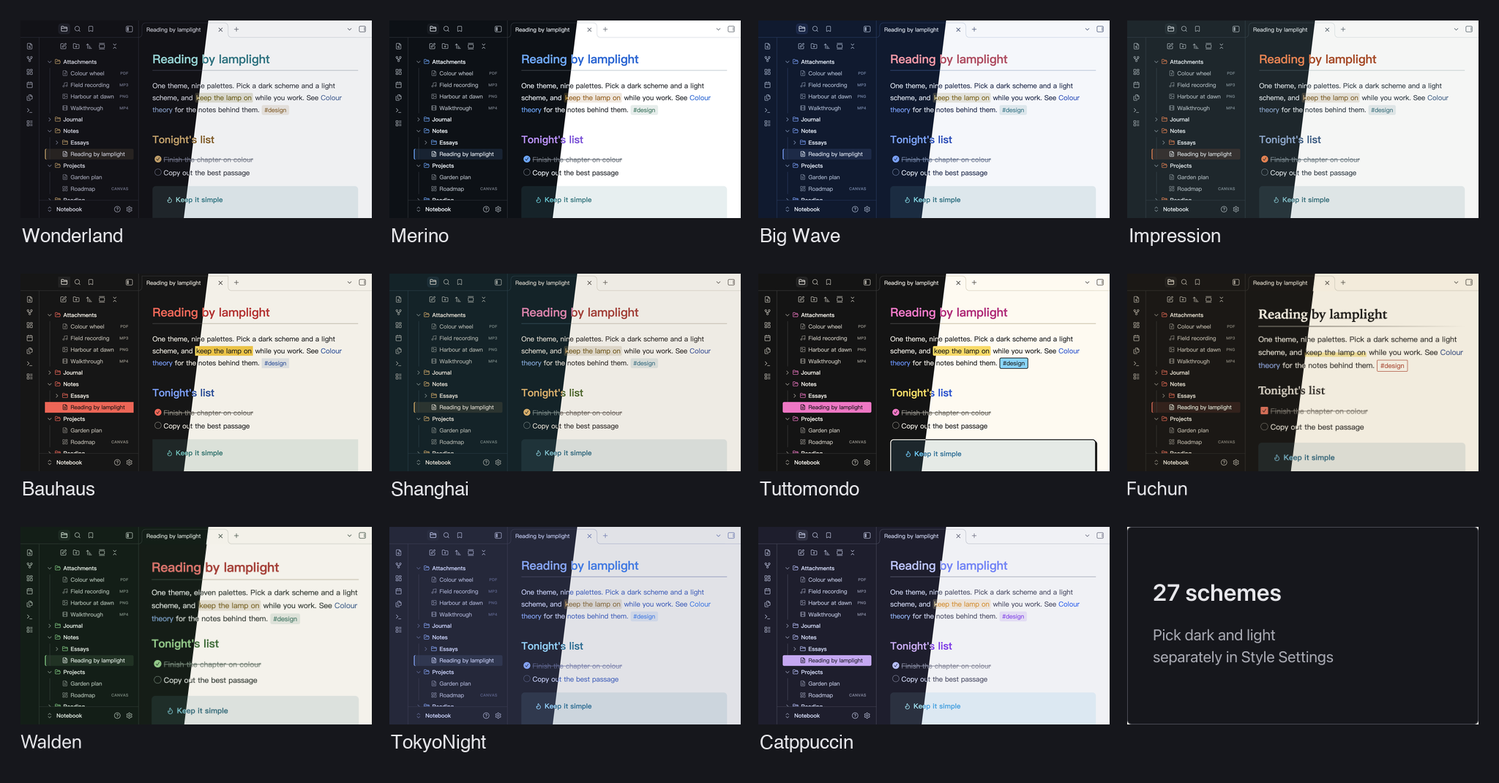
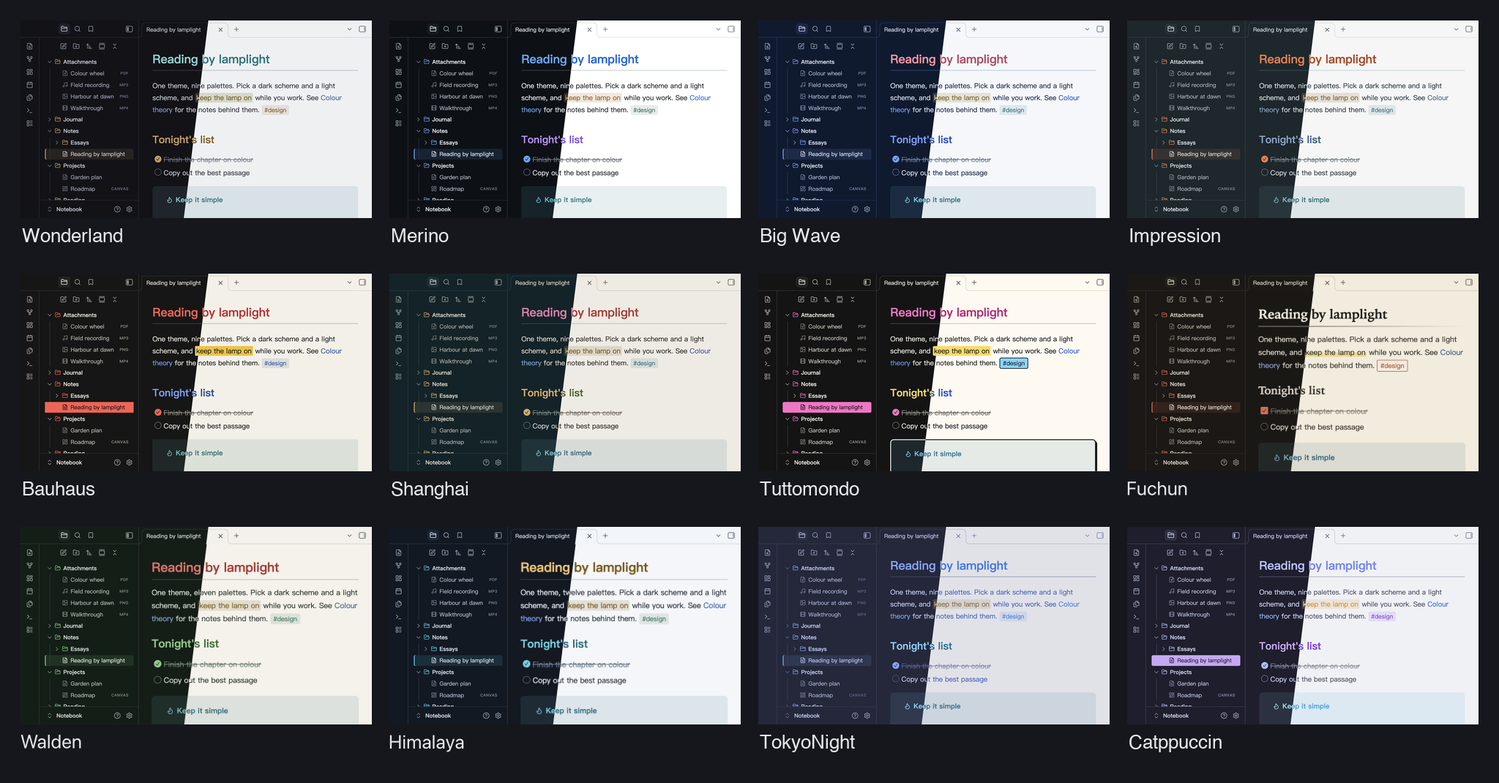
Lamplit 1.12.0

diff --git a/theme.css b/theme.css
@@ -2,7 +2,7 @@
  * Lamplit — Obsidian Theme
  * Reading by lamplight (青灯夜读). One theme, several palettes:
  * pick a dark and a light scheme in Style Settings.
- * Schemes: Wonderland (Underground, Office District, Lab) · Merino (Light, Dark) · Big Wave (Pipeline, Spray) · Impression (Havre, Brume) · Bauhaus (Weimar, Dessau) · Shanghai (Bund, Wukang) · Tuttomondo (Subway, Pisa) · Fuchun (Shengshan, Wuyong) · Walden (Woods, Herbarium) · TokyoNight (Storm, Night, Moon, Day) · Catppuccin (Mocha, Macchiato, Frappé, Latte)
+ * Schemes: Wonderland (Underground, Office District, Lab) · Merino (Light, Dark) · Big Wave (Pipeline, Spray) · Impression (Havre, Brume) · Bauhaus (Weimar, Dessau) · Shanghai (Bund, Wukang) · Tuttomondo (Subway, Pisa) · Fuchun (Shengshan, Wuyong) · Walden (Woods, Herbarium) · Himalaya (Everest, Moraine, Snowline) · TokyoNight (Storm, Night, Moon, Day) · Catppuccin (Mocha, Macchiato, Frappé, Latte)
  * Requires: Style Settings plugin to choose schemes (otherwise the defaults apply)
  * GENERATED by scripts/gen-themes.py from shared/lamplit.toml, shared/palettes/*.toml
  * and scripts/templates/obsidian.css.tmpl — edit those, not this file.
@@ -50,6 +50,12 @@ settings:
       -
         label: Walden · Woods
         value: ll-wd-woods
+      -
+        label: Himalaya · Everest
+        value: ll-hm-everest
+      -
+        label: Himalaya · Moraine
+        value: ll-hm-moraine
       -
         label: TokyoNight · Storm
         value: ll-tn-storm
@@ -102,6 +108,9 @@ settings:
       -
         label: Walden · Herbarium
         value: ll-wd-herbarium
+      -
+        label: Himalaya · Snowline
+        value: ll-hm-snowline
       -
         label: TokyoNight · Day
         value: ll-tn-day
@@ -970,6 +979,162 @@ body.theme-dark.ll-wd-woods {
     --ll-tooltip-rgb:          120, 170, 216;
     --ll-tooltip-border-alpha: 0.45;
     --ll-tooltip-shadow:       0 2px 8px rgba(0, 0, 0, 0.2);
+    --ll-tooltip-text-alpha:   0.85;
+    --ll-cond-1:               var(--ll-mark-fill);
+    --ll-cond-2:               1;
+    --nav-item-color-hover:        var(--ll-fg);
+    --nav-item-background-hover:   var(--ll-bg-hl);
+    --nav-item-background-active:  rgba(var(--ll-accent-rgb), 0.12);
+    --nav-item-color-active:       var(--ll-fg);
+}
+
+/* --- Dark: Himalaya · Everest — 8,848m stratosphere night; cold shale-slate black, crystalline snow text --- */
+
+body.theme-dark.ll-hm-everest {
+    --ll-bg:                   #121822;
+    --ll-bg-dark:              #0c1118;
+    --ll-bg-hl:                #1b2432;
+    --ll-gutter:               #2a374b;
+    --ll-fg:                   #dfe7f0;
+    --ll-fg-dim:               #aebcd0;
+    --ll-comment:              #6c7f99;
+    --ll-comment-rgb:          108, 127, 153;
+    --ll-selection:            #1e3548;
+    --ll-mark-bg:              rgba(242, 193, 102, 0.18);
+    --ll-blue:                 #7ca4f2;
+    --ll-blue-rgb:             124, 164, 242;
+    --ll-cyan:                 #5ad0e6;
+    --ll-cyan-rgb:             90, 208, 230;
+    --ll-teal-rgb:             76, 196, 164;
+    --ll-green:                #92cc7a;
+    --ll-green-rgb:            146, 204, 122;
+    --ll-yellow:               #f2c166;
+    --ll-yellow-rgb:           242, 193, 102;
+    --ll-orange:               #f09456;
+    --ll-orange-rgb:           240, 148, 86;
+    --ll-red:                  #ee6868;
+    --ll-red-rgb:              238, 104, 104;
+    --ll-magenta:              #cc8ae6;
+    --ll-magenta-rgb:          204, 138, 230;
+    --ll-accent:               #5ad0e6;
+    --ll-accent-rgb:           90, 208, 230;
+    --ll-accent-h:             189.4;
+    --ll-accent-hover:         #7ca4f2;
+    --ll-accent-l:             62.7%;
+    --ll-accent-s:             73.7%;
+    --ll-callout-note-rgb:     124, 164, 242;
+    --ll-folder-1:             #7ca4f2;
+    --ll-folder-2:             #f09456;
+    --ll-folder-3:             #4cc4a4;
+    --ll-folder-4:             #ee6868;
+    --ll-folder-5:             #92cc7a;
+    --ll-folder-6:             #cc8ae6;
+    --ll-folder-7:             #f2c166;
+    --ll-folder-8:             #5ad0e6;
+    --ll-graph-tag:            #4cc4a4;
+    --ll-h1:                   #f2c166;
+    --ll-h2:                   #5ad0e6;
+    --ll-h3:                   #7ca4f2;
+    --ll-h4:                   #4cc4a4;
+    --ll-h5:                   #cc8ae6;
+    --ll-h6:                   #6c7f99;
+    --ll-highlight:            #5ad0e6;
+    --ll-mark-fill:            rgba(242, 193, 102, 0.18);
+    --ll-mark-text:            #f2c166;
+    --ll-quote-rule:           #5ad0e6;
+    --ll-radius-2:             2px;
+    --ll-radius-3:             3px;
+    --ll-radius-4:             4px;
+    --ll-radius-6:             6px;
+    --ll-radius-8:             8px;
+    --ll-search:               #f09456;
+    --ll-search-rgb:           240, 148, 86;
+    --ll-table-header:         #5ad0e6;
+    --ll-table-hover-alpha:    0.12;
+    --ll-tag:                  #4cc4a4;
+    --ll-tag-rgb:              76, 196, 164;
+    --ll-tag-hover:            #7ca4f2;
+    --ll-tooltip-rgb:          124, 164, 242;
+    --ll-tooltip-border-alpha: 0.45;
+    --ll-tooltip-shadow:       0 2px 8px rgba(0, 0, 0, 0.22);
+    --ll-tooltip-text-alpha:   0.85;
+    --ll-cond-1:               var(--ll-mark-fill);
+    --ll-cond-2:               1;
+    --nav-item-color-hover:        var(--ll-fg);
+    --nav-item-background-hover:   var(--ll-bg-hl);
+    --nav-item-background-active:  rgba(var(--ll-accent-rgb), 0.12);
+    --nav-item-color-active:       var(--ll-fg);
+}
+
+/* --- Dark: Himalaya · Moraine — twilight over violet-plum moraine rock, after Roerich's dusk peaks --- */
+
+body.theme-dark.ll-hm-moraine {
+    --ll-bg:                   #261d24;
+    --ll-bg-dark:              #1c151a;
+    --ll-bg-hl:                #332831;
+    --ll-gutter:               #483a45;
+    --ll-fg:                   #eae3e8;
+    --ll-fg-dim:               #bfb4bc;
+    --ll-comment:              #877a84;
+    --ll-comment-rgb:          135, 122, 132;
+    --ll-selection:            #3f2e3b;
+    --ll-mark-bg:              rgba(245, 200, 114, 0.18);
+    --ll-blue:                 #8aadf7;
+    --ll-blue-rgb:             138, 173, 247;
+    --ll-cyan:                 #66d6ea;
+    --ll-cyan-rgb:             102, 214, 234;
+    --ll-teal-rgb:             88, 204, 173;
+    --ll-green:                #9cd282;
+    --ll-green-rgb:            156, 210, 130;
+    --ll-yellow:               #f5c872;
+    --ll-yellow-rgb:           245, 200, 114;
+    --ll-orange:               #f49d62;
+    --ll-orange-rgb:           244, 157, 98;
+    --ll-red:                  #f27476;
+    --ll-red-rgb:              242, 116, 118;
+    --ll-magenta:              #d898ee;
+    --ll-magenta-rgb:          216, 152, 238;
+    --ll-accent:               #66d6ea;
+    --ll-accent-rgb:           102, 214, 234;
+    --ll-accent-h:             189.1;
+    --ll-accent-hover:         #8aadf7;
+    --ll-accent-l:             65.9%;
+    --ll-accent-s:             75.9%;
+    --ll-callout-note-rgb:     138, 173, 247;
+    --ll-folder-1:             #8aadf7;
+    --ll-folder-2:             #f49d62;
+    --ll-folder-3:             #58ccad;
+    --ll-folder-4:             #f27476;
+    --ll-folder-5:             #9cd282;
+    --ll-folder-6:             #d898ee;
+    --ll-folder-7:             #f5c872;
+    --ll-folder-8:             #66d6ea;
+    --ll-graph-tag:            #58ccad;
+    --ll-h1:                   #f5c872;
+    --ll-h2:                   #66d6ea;
+    --ll-h3:                   #8aadf7;
+    --ll-h4:                   #58ccad;
+    --ll-h5:                   #d898ee;
+    --ll-h6:                   #877a84;
+    --ll-highlight:            #66d6ea;
+    --ll-mark-fill:            rgba(245, 200, 114, 0.18);
+    --ll-mark-text:            #f5c872;
+    --ll-quote-rule:           #66d6ea;
+    --ll-radius-2:             2px;
+    --ll-radius-3:             3px;
+    --ll-radius-4:             4px;
+    --ll-radius-6:             6px;
+    --ll-radius-8:             8px;
+    --ll-search:               #f49d62;
+    --ll-search-rgb:           244, 157, 98;
+    --ll-table-header:         #66d6ea;
+    --ll-table-hover-alpha:    0.12;
+    --ll-tag:                  #58ccad;
+    --ll-tag-rgb:              88, 204, 173;
+    --ll-tag-hover:            #8aadf7;
+    --ll-tooltip-rgb:          138, 173, 247;
+    --ll-tooltip-border-alpha: 0.45;
+    --ll-tooltip-shadow:       0 2px 8px rgba(0, 0, 0, 0.22);
     --ll-tooltip-text-alpha:   0.85;
     --ll-cond-1:               var(--ll-mark-fill);
     --ll-cond-2:               1;
@@ -2211,6 +2376,84 @@ body.theme-light.ll-wd-herbarium {
     --nav-item-color-active:       var(--ll-fg);
 }
 
+/* --- Light: Himalaya · Snowline — sunlit snowfield under thin sapphire sky; crisp glacial white, basalt ink --- */
+
+body.theme-light.ll-hm-snowline {
+    --ll-bg:                   #f3f6f9;
+    --ll-bg-dark:              #e7edf3;
+    --ll-bg-hl:                #dce5ee;
+    --ll-gutter:               #c4d1df;
+    --ll-fg:                   #1c2530;
+    --ll-fg-dim:               #3f4e60;
+    --ll-comment:              #69798c;
+    --ll-comment-rgb:          105, 121, 140;
+    --ll-selection:            #cde2ec;
+    --ll-mark-bg:              rgba(125, 87, 0, 0.15);
+    --ll-blue:                 #2452a6;
+    --ll-blue-rgb:             36, 82, 166;
+    --ll-cyan:                 #0b697d;
+    --ll-cyan-rgb:             11, 105, 125;
+    --ll-teal-rgb:             19, 110, 87;
+    --ll-green:                #366e28;
+    --ll-green-rgb:            54, 110, 40;
+    --ll-yellow:               #7d5700;
+    --ll-yellow-rgb:           125, 87, 0;
+    --ll-orange:               #a64c0c;
+    --ll-orange-rgb:           166, 76, 12;
+    --ll-red:                  #b82c36;
+    --ll-red-rgb:              184, 44, 54;
+    --ll-magenta:              #7c3b96;
+    --ll-magenta-rgb:          124, 59, 150;
+    --ll-accent:               #0b697d;
+    --ll-accent-rgb:           11, 105, 125;
+    --ll-accent-h:             190.5;
+    --ll-accent-hover:         #2452a6;
+    --ll-accent-l:             26.7%;
+    --ll-accent-s:             83.8%;
+    --ll-callout-note-rgb:     36, 82, 166;
+    --ll-folder-1:             #2452a6;
+    --ll-folder-2:             #a64c0c;
+    --ll-folder-3:             #136e57;
+    --ll-folder-4:             #b82c36;
+    --ll-folder-5:             #366e28;
+    --ll-folder-6:             #7c3b96;
+    --ll-folder-7:             #7d5700;
+    --ll-folder-8:             #0b697d;
+    --ll-graph-tag:            #136e57;
+    --ll-h1:                   #7d5700;
+    --ll-h2:                   #0b697d;
+    --ll-h3:                   #2452a6;
+    --ll-h4:                   #136e57;
+    --ll-h5:                   #7c3b96;
+    --ll-h6:                   #69798c;
+    --ll-highlight:            #0b697d;
+    --ll-mark-fill:            rgba(125, 87, 0, 0.15);
+    --ll-mark-text:            #7d5700;
+    --ll-quote-rule:           #0b697d;
+    --ll-radius-2:             2px;
+    --ll-radius-3:             3px;
+    --ll-radius-4:             4px;
+    --ll-radius-6:             6px;
+    --ll-radius-8:             8px;
+    --ll-search:               #a64c0c;
+    --ll-search-rgb:           166, 76, 12;
+    --ll-table-header:         #0b697d;
+    --ll-table-hover-alpha:    0.12;
+    --ll-tag:                  #136e57;
+    --ll-tag-rgb:              19, 110, 87;
+    --ll-tag-hover:            #2452a6;
+    --ll-tooltip-rgb:          36, 82, 166;
+    --ll-tooltip-border-alpha: 0.45;
+    --ll-tooltip-shadow:       0 2px 8px rgba(0, 0, 0, 0.22);
+    --ll-tooltip-text-alpha:   0.85;
+    --ll-cond-1:               var(--ll-mark-fill);
+    --ll-cond-2:               1;
+    --nav-item-color-hover:        var(--ll-fg);
+    --nav-item-background-hover:   var(--ll-bg-hl);
+    --nav-item-background-active:  rgba(var(--ll-accent-rgb), 0.12);
+    --nav-item-color-active:       var(--ll-fg);
+}
+
 /* --- Light: TokyoNight · Day --- */
 
 body.theme-light.ll-tn-day {
@@ -3168,16 +3411,16 @@ input[type="checkbox"][data-task="!"]::before {
 .nav-folder-title,
 .nav-file-title { border-radius: var(--ll-radius-4); }
 
-:where(body.theme-dark.ll-wl-underground, body.theme-dark:not(.ll-wl-underground, .ll-wl-office, .ll-mr-dark, .ll-bw-pipeline, .ll-im-havre, .ll-bh-weimar, .ll-sh-bund, .ll-tm-subway, .ll-fc-shengshan, .ll-wd-woods, .ll-tn-storm, .ll-tn-night, .ll-tn-moon, .ll-cp-mocha, .ll-cp-macchiato, .ll-cp-frappe), body.theme-dark.ll-wl-office, body.theme-dark.ll-mr-dark, body.theme-dark.ll-bw-pipeline, body.theme-dark.ll-im-havre, body.theme-dark.ll-sh-bund, body.theme-dark.ll-fc-shengshan, body.theme-dark.ll-wd-woods, body.theme-dark.ll-tn-storm, body.theme-dark.ll-tn-night, body.theme-dark.ll-tn-moon, body.theme-light.ll-wl-lab, body.theme-light:not(.ll-wl-lab, .ll-mr-light, .ll-bw-spray, .ll-im-brume, .ll-bh-dessau, .ll-sh-wukang, .ll-tm-pisa, .ll-fc-wuyong, .ll-wd-herbarium, .ll-tn-day, .ll-cp-latte), body.theme-light.ll-mr-light, body.theme-light.ll-bw-spray, body.theme-light.ll-im-brume, body.theme-light.ll-sh-wukang, body.theme-light.ll-fc-wuyong, body.theme-light.ll-wd-herbarium, body.theme-light.ll-tn-day) .nav-file-title:hover,
-:where(body.theme-dark.ll-wl-underground, body.theme-dark:not(.ll-wl-underground, .ll-wl-office, .ll-mr-dark, .ll-bw-pipeline, .ll-im-havre, .ll-bh-weimar, .ll-sh-bund, .ll-tm-subway, .ll-fc-shengshan, .ll-wd-woods, .ll-tn-storm, .ll-tn-night, .ll-tn-moon, .ll-cp-mocha, .ll-cp-macchiato, .ll-cp-frappe), body.theme-dark.ll-wl-office, body.theme-dark.ll-mr-dark, body.theme-dark.ll-bw-pipeline, body.theme-dark.ll-im-havre, body.theme-dark.ll-sh-bund, body.theme-dark.ll-fc-shengshan, body.theme-dark.ll-wd-woods, body.theme-dark.ll-tn-storm, body.theme-dark.ll-tn-night, body.theme-dark.ll-tn-moon, body.theme-light.ll-wl-lab, body.theme-light:not(.ll-wl-lab, .ll-mr-light, .ll-bw-spray, .ll-im-brume, .ll-bh-dessau, .ll-sh-wukang, .ll-tm-pisa, .ll-fc-wuyong, .ll-wd-herbarium, .ll-tn-day, .ll-cp-latte), body.theme-light.ll-mr-light, body.theme-light.ll-bw-spray, body.theme-light.ll-im-brume, body.theme-light.ll-sh-wukang, body.theme-light.ll-fc-wuyong, body.theme-light.ll-wd-herbarium, body.theme-light.ll-tn-day) .nav-folder-title:hover {
+:where(body.theme-dark.ll-wl-underground, body.theme-dark:not(.ll-wl-underground, .ll-wl-office, .ll-mr-dark, .ll-bw-pipeline, .ll-im-havre, .ll-bh-weimar, .ll-sh-bund, .ll-tm-subway, .ll-fc-shengshan, .ll-wd-woods, .ll-hm-everest, .ll-hm-moraine, .ll-tn-storm, .ll-tn-night, .ll-tn-moon, .ll-cp-mocha, .ll-cp-macchiato, .ll-cp-frappe), body.theme-dark.ll-wl-office, body.theme-dark.ll-mr-dark, body.theme-dark.ll-bw-pipeline, body.theme-dark.ll-im-havre, body.theme-dark.ll-sh-bund, body.theme-dark.ll-fc-shengshan, body.theme-dark.ll-wd-woods, body.theme-dark.ll-hm-everest, body.theme-dark.ll-hm-moraine, body.theme-dark.ll-tn-storm, body.theme-dark.ll-tn-night, body.theme-dark.ll-tn-moon, body.theme-light.ll-wl-lab, body.theme-light:not(.ll-wl-lab, .ll-mr-light, .ll-bw-spray, .ll-im-brume, .ll-bh-dessau, .ll-sh-wukang, .ll-tm-pisa, .ll-fc-wuyong, .ll-wd-herbarium, .ll-hm-snowline, .ll-tn-day, .ll-cp-latte), body.theme-light.ll-mr-light, body.theme-light.ll-bw-spray, body.theme-light.ll-im-brume, body.theme-light.ll-sh-wukang, body.theme-light.ll-fc-wuyong, body.theme-light.ll-wd-herbarium, body.theme-light.ll-hm-snowline, body.theme-light.ll-tn-day) .nav-file-title:hover,
+:where(body.theme-dark.ll-wl-underground, body.theme-dark:not(.ll-wl-underground, .ll-wl-office, .ll-mr-dark, .ll-bw-pipeline, .ll-im-havre, .ll-bh-weimar, .ll-sh-bund, .ll-tm-subway, .ll-fc-shengshan, .ll-wd-woods, .ll-hm-everest, .ll-hm-moraine, .ll-tn-storm, .ll-tn-night, .ll-tn-moon, .ll-cp-mocha, .ll-cp-macchiato, .ll-cp-frappe), body.theme-dark.ll-wl-office, body.theme-dark.ll-mr-dark, body.theme-dark.ll-bw-pipeline, body.theme-dark.ll-im-havre, body.theme-dark.ll-sh-bund, body.theme-dark.ll-fc-shengshan, body.theme-dark.ll-wd-woods, body.theme-dark.ll-hm-everest, body.theme-dark.ll-hm-moraine, body.theme-dark.ll-tn-storm, body.theme-dark.ll-tn-night, body.theme-dark.ll-tn-moon, body.theme-light.ll-wl-lab, body.theme-light:not(.ll-wl-lab, .ll-mr-light, .ll-bw-spray, .ll-im-brume, .ll-bh-dessau, .ll-sh-wukang, .ll-tm-pisa, .ll-fc-wuyong, .ll-wd-herbarium, .ll-hm-snowline, .ll-tn-day, .ll-cp-latte), body.theme-light.ll-mr-light, body.theme-light.ll-bw-spray, body.theme-light.ll-im-brume, body.theme-light.ll-sh-wukang, body.theme-light.ll-fc-wuyong, body.theme-light.ll-wd-herbarium, body.theme-light.ll-hm-snowline, body.theme-light.ll-tn-day) .nav-folder-title:hover {
     background: linear-gradient(90deg, rgba(var(--ll-accent-rgb), 0.15) 0%, transparent 80%);
     transition: background var(--anim-fast) var(--anim-smooth);
 }
 
 /* Active file — accent tint (via --nav-item-background-active) + a left accent
    bar (inset shadow, no layout shift). Weight stays normal; bold is for folders. */
-:where(body.theme-dark.ll-wl-underground, body.theme-dark:not(.ll-wl-underground, .ll-wl-office, .ll-mr-dark, .ll-bw-pipeline, .ll-im-havre, .ll-bh-weimar, .ll-sh-bund, .ll-tm-subway, .ll-fc-shengshan, .ll-wd-woods, .ll-tn-storm, .ll-tn-night, .ll-tn-moon, .ll-cp-mocha, .ll-cp-macchiato, .ll-cp-frappe), body.theme-dark.ll-wl-office, body.theme-dark.ll-mr-dark, body.theme-dark.ll-bw-pipeline, body.theme-dark.ll-im-havre, body.theme-dark.ll-sh-bund, body.theme-dark.ll-fc-shengshan, body.theme-dark.ll-wd-woods, body.theme-dark.ll-tn-storm, body.theme-dark.ll-tn-night, body.theme-dark.ll-tn-moon, body.theme-light.ll-wl-lab, body.theme-light:not(.ll-wl-lab, .ll-mr-light, .ll-bw-spray, .ll-im-brume, .ll-bh-dessau, .ll-sh-wukang, .ll-tm-pisa, .ll-fc-wuyong, .ll-wd-herbarium, .ll-tn-day, .ll-cp-latte), body.theme-light.ll-mr-light, body.theme-light.ll-bw-spray, body.theme-light.ll-im-brume, body.theme-light.ll-sh-wukang, body.theme-light.ll-fc-wuyong, body.theme-light.ll-wd-herbarium, body.theme-light.ll-tn-day) .nav-file-title.is-active,
-:where(body.theme-dark.ll-wl-underground, body.theme-dark:not(.ll-wl-underground, .ll-wl-office, .ll-mr-dark, .ll-bw-pipeline, .ll-im-havre, .ll-bh-weimar, .ll-sh-bund, .ll-tm-subway, .ll-fc-shengshan, .ll-wd-woods, .ll-tn-storm, .ll-tn-night, .ll-tn-moon, .ll-cp-mocha, .ll-cp-macchiato, .ll-cp-frappe), body.theme-dark.ll-wl-office, body.theme-dark.ll-mr-dark, body.theme-dark.ll-bw-pipeline, body.theme-dark.ll-im-havre, body.theme-dark.ll-sh-bund, body.theme-dark.ll-fc-shengshan, body.theme-dark.ll-wd-woods, body.theme-dark.ll-tn-storm, body.theme-dark.ll-tn-night, body.theme-dark.ll-tn-moon, body.theme-light.ll-wl-lab, body.theme-light:not(.ll-wl-lab, .ll-mr-light, .ll-bw-spray, .ll-im-brume, .ll-bh-dessau, .ll-sh-wukang, .ll-tm-pisa, .ll-fc-wuyong, .ll-wd-herbarium, .ll-tn-day, .ll-cp-latte), body.theme-light.ll-mr-light, body.theme-light.ll-bw-spray, body.theme-light.ll-im-brume, body.theme-light.ll-sh-wukang, body.theme-light.ll-fc-wuyong, body.theme-light.ll-wd-herbarium, body.theme-light.ll-tn-day) .tree-item-self.is-active {
+:where(body.theme-dark.ll-wl-underground, body.theme-dark:not(.ll-wl-underground, .ll-wl-office, .ll-mr-dark, .ll-bw-pipeline, .ll-im-havre, .ll-bh-weimar, .ll-sh-bund, .ll-tm-subway, .ll-fc-shengshan, .ll-wd-woods, .ll-hm-everest, .ll-hm-moraine, .ll-tn-storm, .ll-tn-night, .ll-tn-moon, .ll-cp-mocha, .ll-cp-macchiato, .ll-cp-frappe), body.theme-dark.ll-wl-office, body.theme-dark.ll-mr-dark, body.theme-dark.ll-bw-pipeline, body.theme-dark.ll-im-havre, body.theme-dark.ll-sh-bund, body.theme-dark.ll-fc-shengshan, body.theme-dark.ll-wd-woods, body.theme-dark.ll-hm-everest, body.theme-dark.ll-hm-moraine, body.theme-dark.ll-tn-storm, body.theme-dark.ll-tn-night, body.theme-dark.ll-tn-moon, body.theme-light.ll-wl-lab, body.theme-light:not(.ll-wl-lab, .ll-mr-light, .ll-bw-spray, .ll-im-brume, .ll-bh-dessau, .ll-sh-wukang, .ll-tm-pisa, .ll-fc-wuyong, .ll-wd-herbarium, .ll-hm-snowline, .ll-tn-day, .ll-cp-latte), body.theme-light.ll-mr-light, body.theme-light.ll-bw-spray, body.theme-light.ll-im-brume, body.theme-light.ll-sh-wukang, body.theme-light.ll-fc-wuyong, body.theme-light.ll-wd-herbarium, body.theme-light.ll-hm-snowline, body.theme-light.ll-tn-day) .nav-file-title.is-active,
+:where(body.theme-dark.ll-wl-underground, body.theme-dark:not(.ll-wl-underground, .ll-wl-office, .ll-mr-dark, .ll-bw-pipeline, .ll-im-havre, .ll-bh-weimar, .ll-sh-bund, .ll-tm-subway, .ll-fc-shengshan, .ll-wd-woods, .ll-hm-everest, .ll-hm-moraine, .ll-tn-storm, .ll-tn-night, .ll-tn-moon, .ll-cp-mocha, .ll-cp-macchiato, .ll-cp-frappe), body.theme-dark.ll-wl-office, body.theme-dark.ll-mr-dark, body.theme-dark.ll-bw-pipeline, body.theme-dark.ll-im-havre, body.theme-dark.ll-sh-bund, body.theme-dark.ll-fc-shengshan, body.theme-dark.ll-wd-woods, body.theme-dark.ll-hm-everest, body.theme-dark.ll-hm-moraine, body.theme-dark.ll-tn-storm, body.theme-dark.ll-tn-night, body.theme-dark.ll-tn-moon, body.theme-light.ll-wl-lab, body.theme-light:not(.ll-wl-lab, .ll-mr-light, .ll-bw-spray, .ll-im-brume, .ll-bh-dessau, .ll-sh-wukang, .ll-tm-pisa, .ll-fc-wuyong, .ll-wd-herbarium, .ll-hm-snowline, .ll-tn-day, .ll-cp-latte), body.theme-light.ll-mr-light, body.theme-light.ll-bw-spray, body.theme-light.ll-im-brume, body.theme-light.ll-sh-wukang, body.theme-light.ll-fc-wuyong, body.theme-light.ll-wd-herbarium, body.theme-light.ll-hm-snowline, body.theme-light.ll-tn-day) .tree-item-self.is-active {
     color: var(--ll-fg);
     box-shadow: inset 2px 0 0 var(--ll-accent);
 }
@@ -3307,8 +3550,8 @@ body:not(.is-grabbing):where(.theme-dark.ll-bh-weimar, .theme-dark.ll-tm-subway,
  * ============================================================ */
 
 /* Selected item: accent tint, mirroring the file explorer hover. */
-:where(body.theme-dark.ll-wl-underground, body.theme-dark:not(.ll-wl-underground, .ll-wl-office, .ll-mr-dark, .ll-bw-pipeline, .ll-im-havre, .ll-bh-weimar, .ll-sh-bund, .ll-tm-subway, .ll-fc-shengshan, .ll-wd-woods, .ll-tn-storm, .ll-tn-night, .ll-tn-moon, .ll-cp-mocha, .ll-cp-macchiato, .ll-cp-frappe), body.theme-dark.ll-wl-office, body.theme-dark.ll-mr-dark, body.theme-dark.ll-bw-pipeline, body.theme-dark.ll-im-havre, body.theme-dark.ll-sh-bund, body.theme-dark.ll-fc-shengshan, body.theme-dark.ll-wd-woods, body.theme-dark.ll-tn-storm, body.theme-dark.ll-tn-night, body.theme-dark.ll-tn-moon, body.theme-light.ll-wl-lab, body.theme-light:not(.ll-wl-lab, .ll-mr-light, .ll-bw-spray, .ll-im-brume, .ll-bh-dessau, .ll-sh-wukang, .ll-tm-pisa, .ll-fc-wuyong, .ll-wd-herbarium, .ll-tn-day, .ll-cp-latte), body.theme-light.ll-mr-light, body.theme-light.ll-bw-spray, body.theme-light.ll-im-brume, body.theme-light.ll-sh-wukang, body.theme-light.ll-fc-wuyong, body.theme-light.ll-wd-herbarium, body.theme-light.ll-tn-day) .menu-item:not(.is-label):not(.is-disabled).selected,
-:where(body.theme-dark.ll-wl-underground, body.theme-dark:not(.ll-wl-underground, .ll-wl-office, .ll-mr-dark, .ll-bw-pipeline, .ll-im-havre, .ll-bh-weimar, .ll-sh-bund, .ll-tm-subway, .ll-fc-shengshan, .ll-wd-woods, .ll-tn-storm, .ll-tn-night, .ll-tn-moon, .ll-cp-mocha, .ll-cp-macchiato, .ll-cp-frappe), body.theme-dark.ll-wl-office, body.theme-dark.ll-mr-dark, body.theme-dark.ll-bw-pipeline, body.theme-dark.ll-im-havre, body.theme-dark.ll-sh-bund, body.theme-dark.ll-fc-shengshan, body.theme-dark.ll-wd-woods, body.theme-dark.ll-tn-storm, body.theme-dark.ll-tn-night, body.theme-dark.ll-tn-moon, body.theme-light.ll-wl-lab, body.theme-light:not(.ll-wl-lab, .ll-mr-light, .ll-bw-spray, .ll-im-brume, .ll-bh-dessau, .ll-sh-wukang, .ll-tm-pisa, .ll-fc-wuyong, .ll-wd-herbarium, .ll-tn-day, .ll-cp-latte), body.theme-light.ll-mr-light, body.theme-light.ll-bw-spray, body.theme-light.ll-im-brume, body.theme-light.ll-sh-wukang, body.theme-light.ll-fc-wuyong, body.theme-light.ll-wd-herbarium, body.theme-light.ll-tn-day) .menu-item:not(.is-label):not(.is-disabled).mobile-tap {
+:where(body.theme-dark.ll-wl-underground, body.theme-dark:not(.ll-wl-underground, .ll-wl-office, .ll-mr-dark, .ll-bw-pipeline, .ll-im-havre, .ll-bh-weimar, .ll-sh-bund, .ll-tm-subway, .ll-fc-shengshan, .ll-wd-woods, .ll-hm-everest, .ll-hm-moraine, .ll-tn-storm, .ll-tn-night, .ll-tn-moon, .ll-cp-mocha, .ll-cp-macchiato, .ll-cp-frappe), body.theme-dark.ll-wl-office, body.theme-dark.ll-mr-dark, body.theme-dark.ll-bw-pipeline, body.theme-dark.ll-im-havre, body.theme-dark.ll-sh-bund, body.theme-dark.ll-fc-shengshan, body.theme-dark.ll-wd-woods, body.theme-dark.ll-hm-everest, body.theme-dark.ll-hm-moraine, body.theme-dark.ll-tn-storm, body.theme-dark.ll-tn-night, body.theme-dark.ll-tn-moon, body.theme-light.ll-wl-lab, body.theme-light:not(.ll-wl-lab, .ll-mr-light, .ll-bw-spray, .ll-im-brume, .ll-bh-dessau, .ll-sh-wukang, .ll-tm-pisa, .ll-fc-wuyong, .ll-wd-herbarium, .ll-hm-snowline, .ll-tn-day, .ll-cp-latte), body.theme-light.ll-mr-light, body.theme-light.ll-bw-spray, body.theme-light.ll-im-brume, body.theme-light.ll-sh-wukang, body.theme-light.ll-fc-wuyong, body.theme-light.ll-wd-herbarium, body.theme-light.ll-hm-snowline, body.theme-light.ll-tn-day) .menu-item:not(.is-label):not(.is-disabled).selected,
+:where(body.theme-dark.ll-wl-underground, body.theme-dark:not(.ll-wl-underground, .ll-wl-office, .ll-mr-dark, .ll-bw-pipeline, .ll-im-havre, .ll-bh-weimar, .ll-sh-bund, .ll-tm-subway, .ll-fc-shengshan, .ll-wd-woods, .ll-hm-everest, .ll-hm-moraine, .ll-tn-storm, .ll-tn-night, .ll-tn-moon, .ll-cp-mocha, .ll-cp-macchiato, .ll-cp-frappe), body.theme-dark.ll-wl-office, body.theme-dark.ll-mr-dark, body.theme-dark.ll-bw-pipeline, body.theme-dark.ll-im-havre, body.theme-dark.ll-sh-bund, body.theme-dark.ll-fc-shengshan, body.theme-dark.ll-wd-woods, body.theme-dark.ll-hm-everest, body.theme-dark.ll-hm-moraine, body.theme-dark.ll-tn-storm, body.theme-dark.ll-tn-night, body.theme-dark.ll-tn-moon, body.theme-light.ll-wl-lab, body.theme-light:not(.ll-wl-lab, .ll-mr-light, .ll-bw-spray, .ll-im-brume, .ll-bh-dessau, .ll-sh-wukang, .ll-tm-pisa, .ll-fc-wuyong, .ll-wd-herbarium, .ll-hm-snowline, .ll-tn-day, .ll-cp-latte), body.theme-light.ll-mr-light, body.theme-light.ll-bw-spray, body.theme-light.ll-im-brume, body.theme-light.ll-sh-wukang, body.theme-light.ll-fc-wuyong, body.theme-light.ll-wd-herbarium, body.theme-light.ll-hm-snowline, body.theme-light.ll-tn-day) .menu-item:not(.is-label):not(.is-disabled).mobile-tap {
     background-color: rgba(var(--ll-accent-rgb), 0.15);
 }
 

diff --git a/README.md b/README.md
@@ -2,7 +2,7 @@
 
 English · [简体中文](README.zh-CN.md)
 
-**One theme, eleven palettes.** Pick a scheme for dark mode and another for light mode, from any palette you like.
+**One theme, twelve palettes.** Pick a scheme for dark mode and another for light mode, from any palette you like.
 
 ![Lamplit: palettes, outlines and Mermaid diagrams in each scheme's colors](highlights.gif)
 
@@ -16,7 +16,7 @@ Without Style Settings you get Wonderland, and no way to switch palettes.
 
 ## Palettes
 
-![The eleven palettes, each in dark and light](palettes.png)
+![The twelve palettes, each in dark and light](palettes.png)
 
 | Palette | Dark | Light | After |
 |---------|------|-------|-------|
@@ -29,6 +29,7 @@ Without Style Settings you get Wonderland, and no way to switch palettes.
 | **Tuttomondo** | Subway | Pisa | After the 1989 mural *Tuttomondo* in Pisa: heavy outlines, hard shadows, solid tags and highlights |
 | **Fuchun** | Shengshan | Wuyong | Huang Gongwang's *Dwelling in the Fuchun Mountains*: five shades of ink, a cinnabar seal, Kaiti headings and brush-stroke rules |
 | **Walden** | Woods | Herbarium | Henry David Thoreau's *Walden*: deep pine and fern green, wild berry H1, herbarium paper |
+| **Himalaya** | Everest, Moraine | Snowline | High Himalaya & Roerich's canvases: slate night, twilight moraine, summit gold H1, glacier cyan |
 | **TokyoNight** | Storm, Night, Moon | Day | The official [tokyonight.nvim](https://github.com/folke/tokyonight.nvim) palette |
 | **Catppuccin** | Mocha, Macchiato, Frappé | Latte | The official [Catppuccin](https://catppuccin.com) palette |
 
@@ -66,7 +67,7 @@ The files in `agiledolphin/lamplit` are generated. Their sources, and the same p
 
 ## Credits
 
-- Palettes: [tokyonight.nvim](https://github.com/folke/tokyonight.nvim) by [@folke](https://github.com/folke); [Catppuccin](https://catppuccin.com) by the Catppuccin org; Merino after the Merino Light / Dark terminal themes (GitHub Primer colors); Big Wave after the cover of Tatsuro Yamashita's *Big Wave*; Impression after Claude Monet's *Impression, Sunrise*; Bauhaus after the Bauhaus school; Shanghai after the two banks of the Huangpu; Tuttomondo in the spirit of the 1989 mural *Tuttomondo* in Pisa, with colors of our own; Fuchun after Huang Gongwang's *Dwelling in the Fuchun Mountains*; Walden after Thoreau's *Walden*; Wonderland is original
+- Palettes: [tokyonight.nvim](https://github.com/folke/tokyonight.nvim) by [@folke](https://github.com/folke); [Catppuccin](https://catppuccin.com) by the Catppuccin org; Merino after the Merino Light / Dark terminal themes (GitHub Primer colors); Big Wave after the cover of Tatsuro Yamashita's *Big Wave*; Impression after Claude Monet's *Impression, Sunrise*; Bauhaus after the Bauhaus school; Shanghai after the two banks of the Huangpu; Tuttomondo in the spirit of the 1989 mural *Tuttomondo* in Pisa, with colors of our own; Fuchun after Huang Gongwang's *Dwelling in the Fuchun Mountains*; Walden after Thoreau's *Walden*; Himalaya after the high Himalaya and Roerich's canvases; Wonderland is original
 - Design reference: [Minimal](https://github.com/kepano/obsidian-minimal) by [@kepano](https://github.com/kepano)
 - Icons: [Lucide](https://lucide.dev), the set Obsidian itself uses
 
